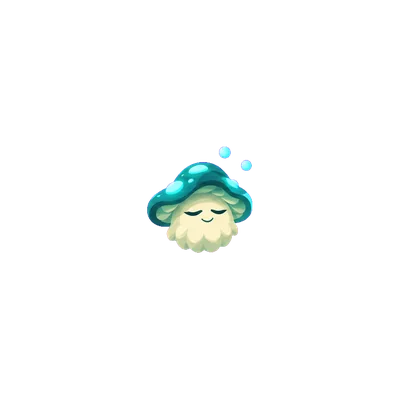
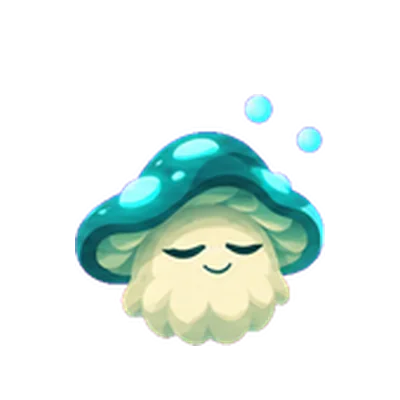
Collection: a card read large shows the tokens it makes beside it, as in the old game; the Spore's figure fills its piece (Martin, 2026-11-21)
The engine names what each card makes (effects.MAKES); the pool sends it as "related".

Claude-Session: https://claude.ai/code/session_01Ehedr4sqkMoeNnuezuXnKQ

Changed region(s): [[0.18, 0.33, 0.81, 0.87], [0.72, 0.3, 0.81, 0.39], [0.6, 0.24, 0.69, 0.33]]

diff --git a/animal_kingdom/web/match.py b/animal_kingdom/web/match.py
@@ -19,7 +19,7 @@ from ..engine import rules, statics
 from ..engine.actions import SKIP, ChoiceAction, LeaderAction, PassAction, PlaceAction, action_from_dict
 from ..engine import leaders as L
 from ..engine.cards import load_cards
-from ..engine.effects import leader_usable, mana_cost
+from ..engine.effects import MAKES, leader_usable, mana_cost
 from ..engine.maps import load_map
 from ..engine.state import MAP_ID, EngineError, GameState, Result, new_game, other_player
 from ..engine.strength import card_strength, effective_strength
@@ -547,5 +547,6 @@ def card_pool() -> list[dict]:
     """Every card as the client reads it."""
     return [{"id": c.id, "name": c.name, "status": c.status, "rarity": c.rarity,
              # a variable strength (the Shades) prints 0: its text says what it gains
-             "str": 0 if c.is_dynamic else c.base_strength, "text": c.text, "kw": sorted(c.keywords), "mana": c.cost}
+             "str": 0 if c.is_dynamic else c.base_strength, "text": c.text, "kw": sorted(c.keywords), "mana": c.cost,
+             **({"related": list(MAKES[c.id])} if c.id in MAKES else {})}
             for c in CARDS.values()]

diff --git a/animal_kingdom/engine/effects.py b/animal_kingdom/engine/effects.py
@@ -602,6 +602,9 @@ EFFECTS: dict[str, dict[str, Callable]] = {
     **{cid: {"on_cover": _draw_if_it_removes} for cid in KILL_DRAWS},
 }
 
+# The cards a card makes, which a card read large shows beside it (Martin, 2026-11-21: "same way it was in the original game").
+MAKES: dict[str, tuple] = {"duplicating_spore": (SPORE,), "mama_spore": (SPORE,)}
+
 
 # ===================================================================== leaders
 
